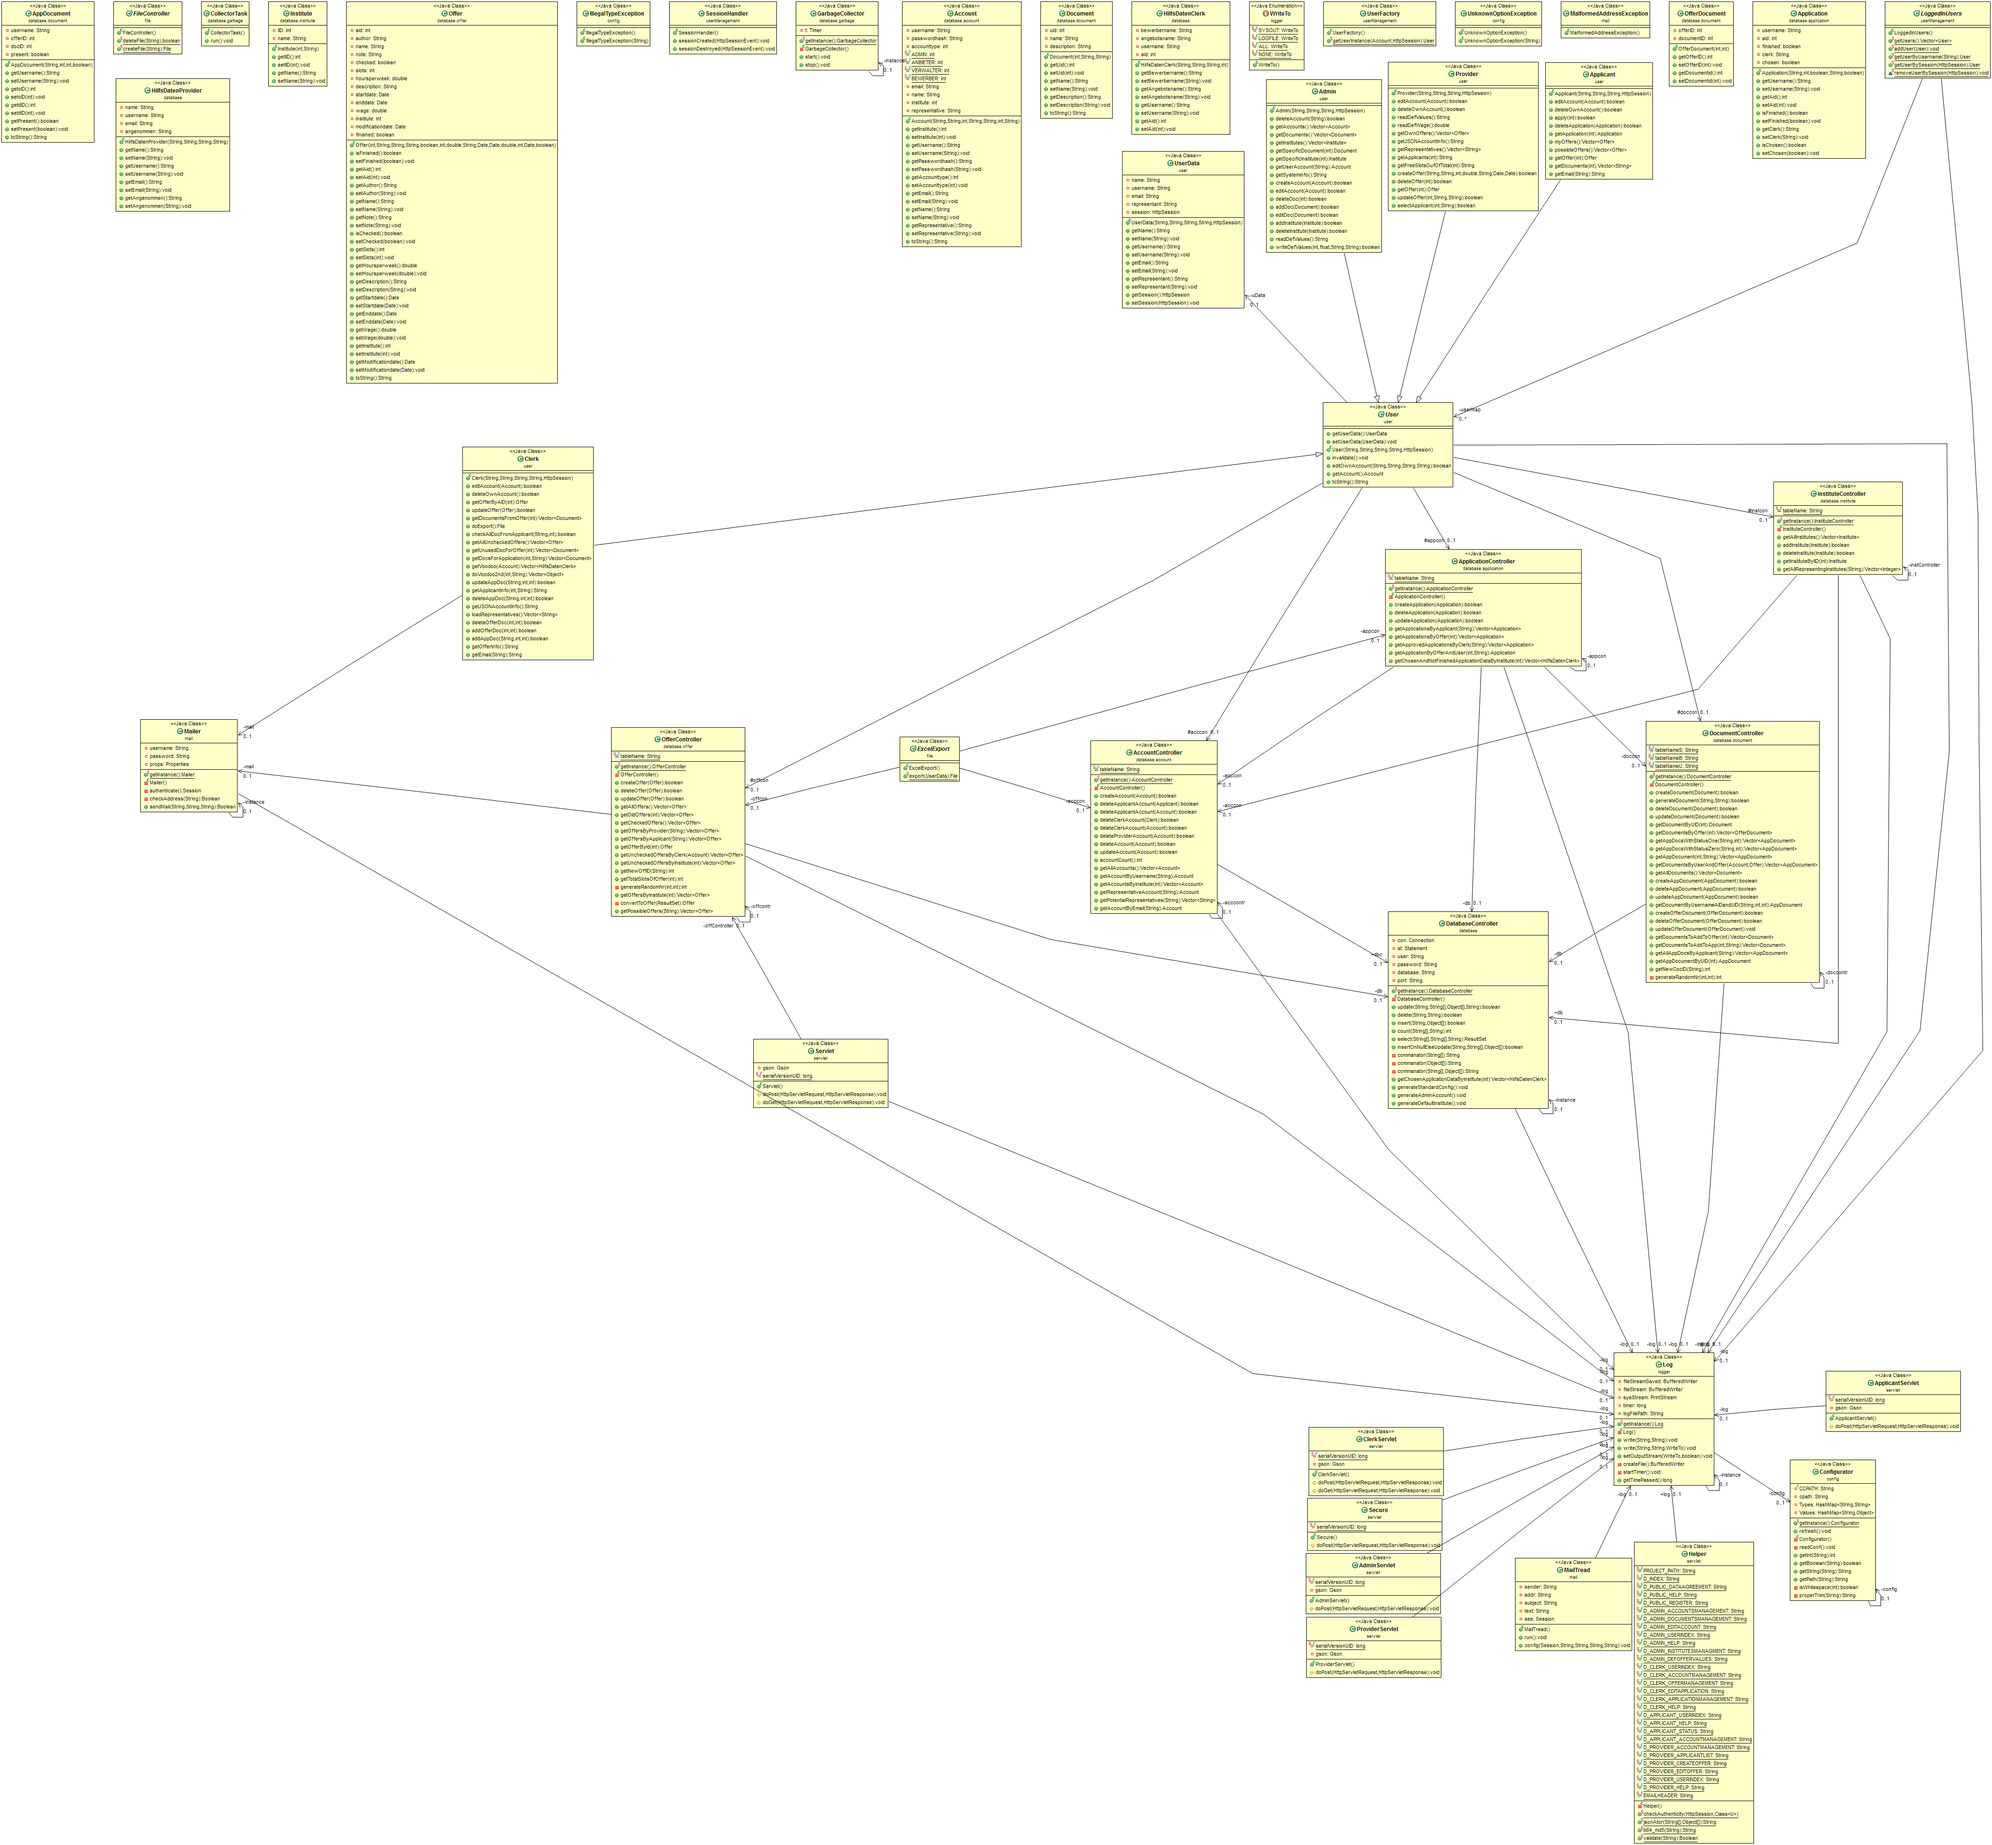
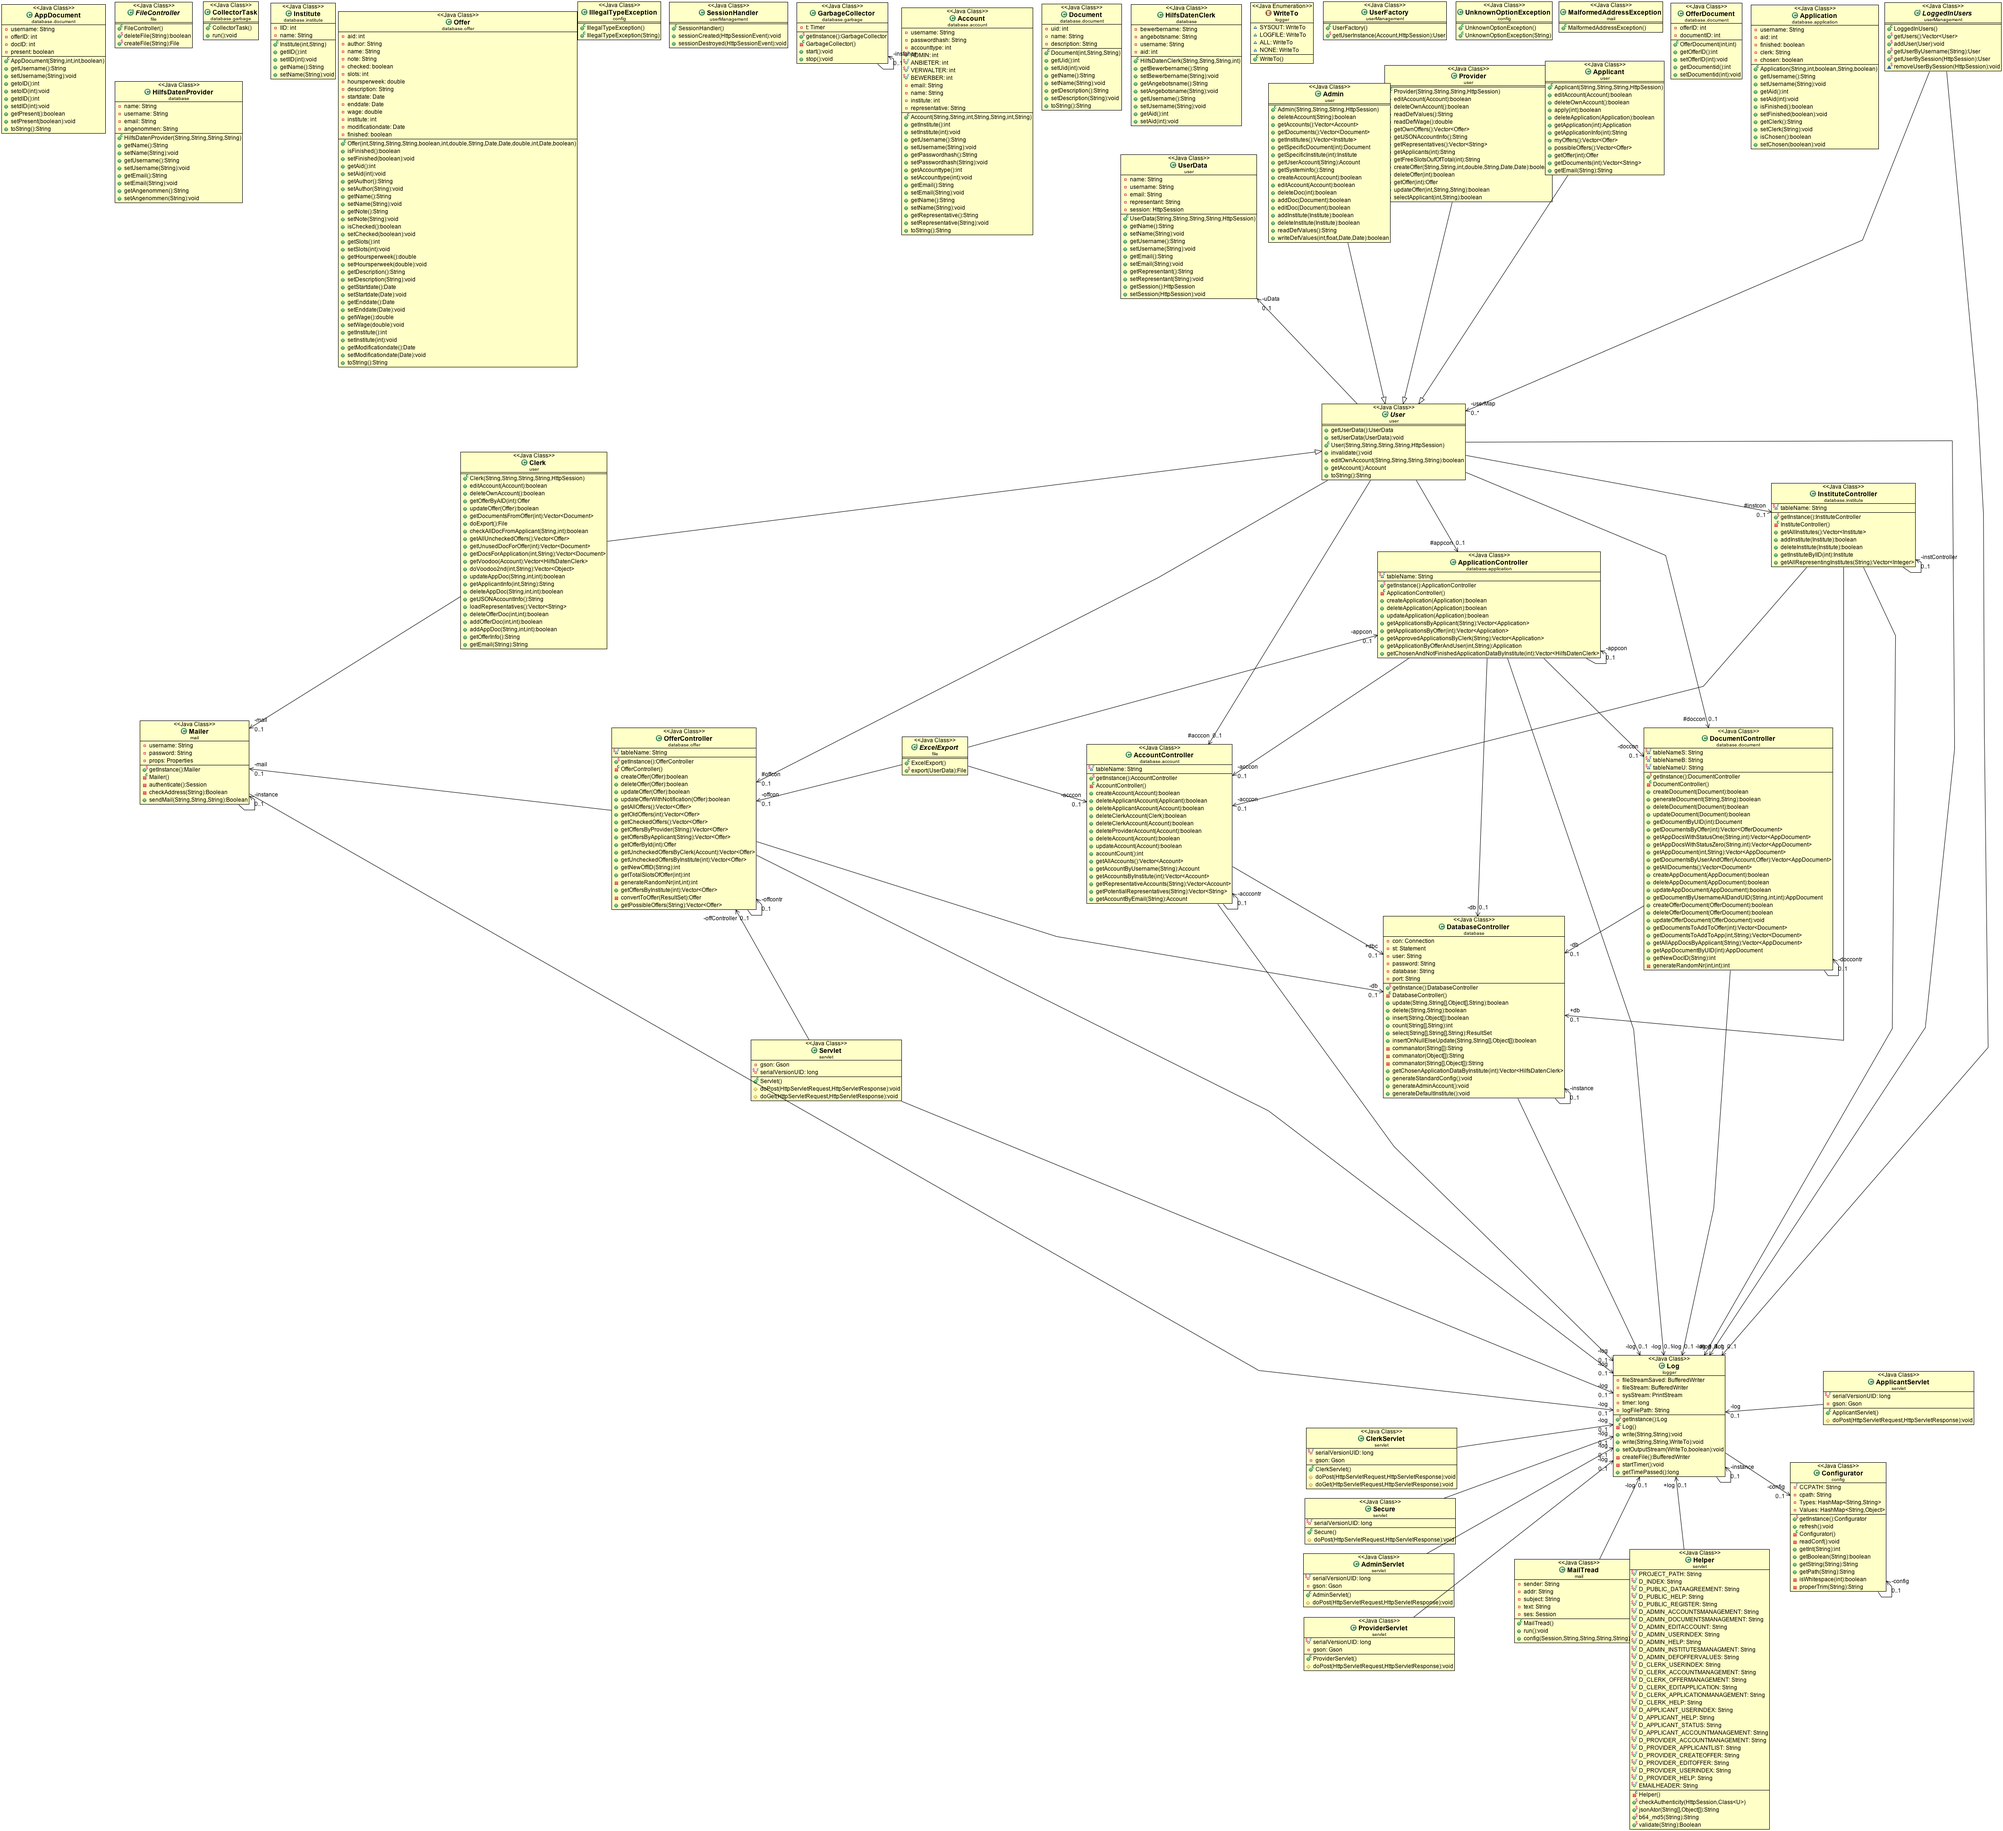
benachrichtigung bei bewerber auswahl gefixt^^

diff --git a/src/database/offer/OfferController.java b/src/database/offer/OfferController.java
@@ -161,6 +161,39 @@ public class OfferController {
 	 * @return Gibt an, ob die Operation erfolgreich war.
 	 */
 	public boolean updateOffer(Offer offer) {
+
+		String[] columns = { "Ersteller", "Name", "Notiz", "Geprueft",
+				"Plaetze", "Stundenprowoche", "Beschreibung", "Beginn", "Ende",
+				"Stundenlohn", "Institut", "aenderungsdatum", "abgeschlossen" };
+
+		java.util.Date aenderungsdatum_1 = new java.util.Date();
+		java.sql.Date aenderungsdatum = new java.sql.Date(
+				aenderungsdatum_1.getTime());
+		offer.setModificationdate(aenderungsdatum);
+
+		Object[] values = { offer.getAuthor(), offer.getName(),
+				offer.getNote(), offer.isChecked(), offer.getSlots(),
+				offer.getHoursperweek(), offer.getDescription(),
+				offer.getStartdate(), offer.getEnddate(), offer.getWage(),
+				offer.getInstitute(), offer.getModificationdate(),
+				offer.isFinished() };
+
+		String where = "AID = " + offer.getAid();
+
+		return (db.update(tableName, columns, values, where));
+
+	}
+	
+	/**
+	 * Diese Methode aendert die Attribute eines Jobangebots beziehungsweise
+	 * aktualisiert diese in der Datenbank und benachrichtigt die Bewerber darueber.
+	 * 
+	 * @param offer
+	 *            Parameter "offer" ist ein Offer-Objekt mit allen
+	 *            dazugehoerigen Attributen.
+	 * @return Gibt an, ob die Operation erfolgreich war.
+	 */
+	public boolean updateOfferWithNotification(Offer offer) {
 		// Hier ist die Mail benachrichtigung:
 		ResultSet rs = db.select(new String[] { "acc.email" }, new String[] {
 				"Accounts as acc", "Bewerbungen as b", "Angebote as a" },
@@ -209,6 +242,7 @@ public class OfferController {
 		return (db.update(tableName, columns, values, where));
 
 	}
+
 
 	/**
 	 * Diese Methode sammelt alle Jobangebote aus der Datenbank und speichert

diff --git a/src/user/Provider.java b/src/user/Provider.java
@@ -317,7 +317,7 @@ public class Provider extends User {
 		offUp.setDescription(description);
 		// sets modificationdate and updates it
 		offUp.setModificationdate(aenderungsdatum_toUp);
-		return offcon.updateOffer(offUp);
+		return offcon.updateOfferWithNotification(offUp);
 	}
 
 	/**
